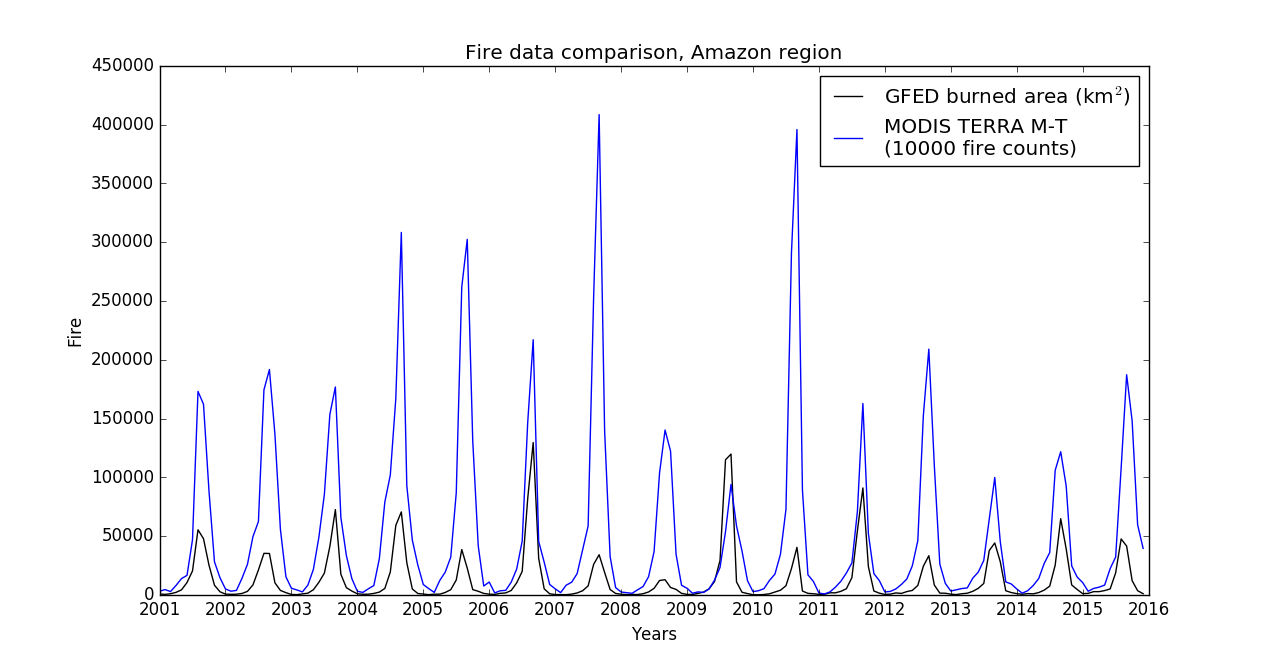
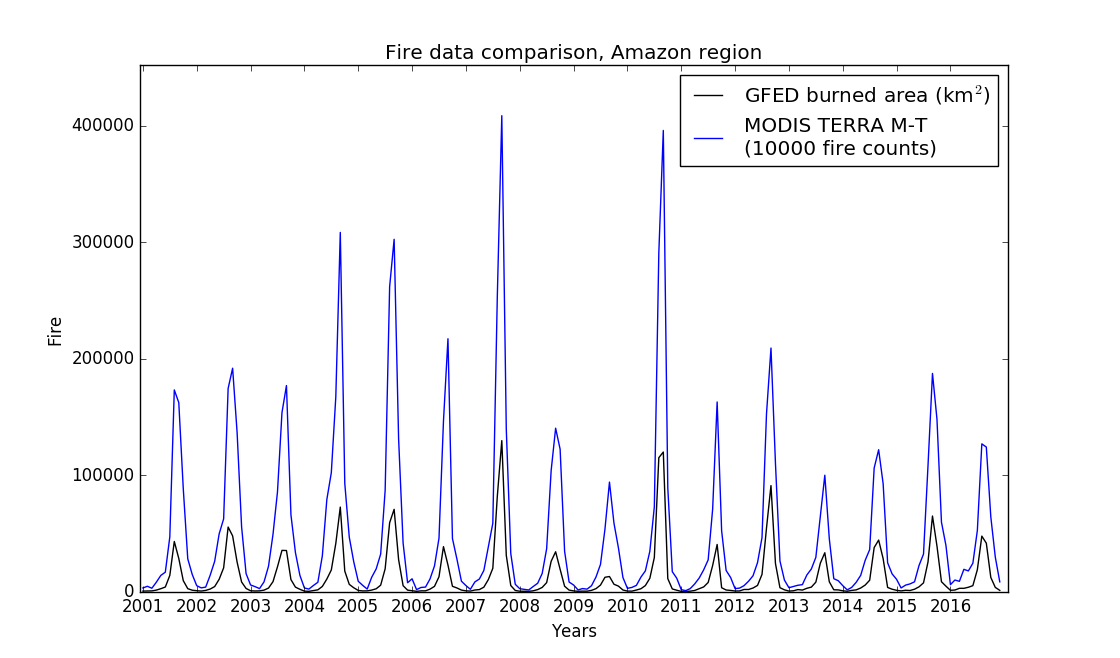
Add files via upload
Updated with corrected dates for GFED files

diff --git a/figs/Comparison.py b/figs/Comparison.py
@@ -1,14 +1,5 @@
-#Step 1) Make GFED and TERRA the same size
-'''
-TERRA = months since 2001 (to 2019)
-GFED = months since 2000 (to 2016)
 
-ncks -d time,0,179 -o TERRA_MT_2001-2016_CB.nc firecount_TERRA_M__T.nc
-ncks -d time,12,191 -o GFED_2001-2016_CB.nc burnt_area-GFED4s_2.5degree_2000-2016.nc
-'''
-
-
-# Step 2) Make plots
+# Make plots
 ### South America total ###
 
 import matplotlib as mpl
@@ -49,7 +40,7 @@ print cube.data
 
 fig, ax = plt.subplots()
 
-x = np.arange(180)
+x = np.arange(192)
 ax.plot(x,GFED.data, color='black', label='GFED burned area (km$^2$)')
 ax.plot(x,cube.data, color='blue', label='MODIS TERRA M-T \n(10000 fire counts)')
 #Alternative: scatter plot
@@ -115,7 +106,7 @@ cube = cube.collapsed(coords, iris.analysis.SUM, weights = grid_weights)/1000000
 
 fig, ax = plt.subplots()
 
-x = np.arange(180)
+x = np.arange(192)
 ax.plot(x,GFED.data, color='black', label='GFED burned area (km$^2$)')
 ax.plot(x,cube.data, color='blue', label='MODIS TERRA M-T \n(10000 fire counts)')
 #Alternative: scatter plot
